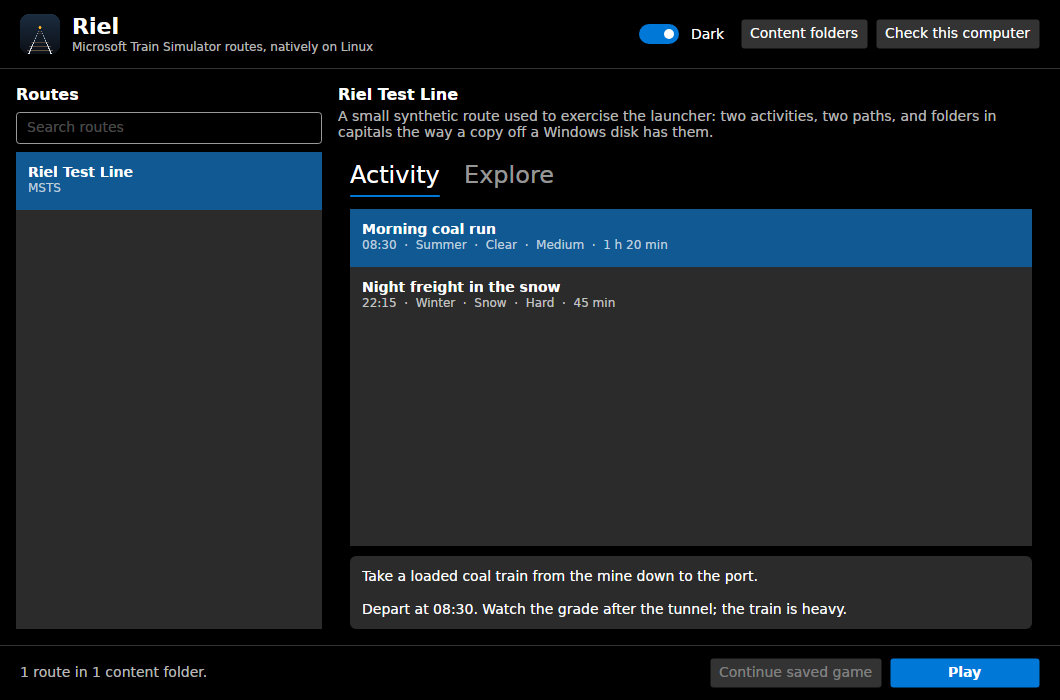
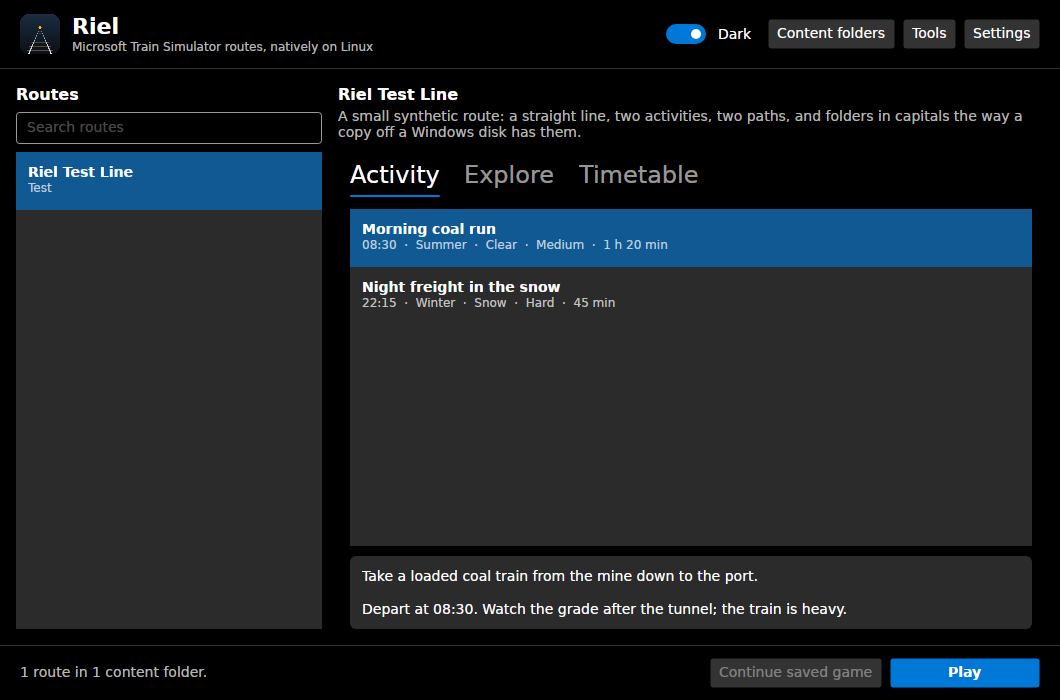
Refresh road crossings as scenery loads and update launcher docs (#10)

diff --git a/Source/Orts.Simulation/World/RoadCarSpawner.cs b/Source/Orts.Simulation/World/RoadCarSpawner.cs
@@ -19,8 +19,10 @@ namespace Orts.Simulation.World
 {
     public class RoadCarSpawner
     {
+        internal static readonly bool TraceCrossings = System.Environment.GetEnvironmentVariable("RIEL_TRACE_ROAD_CROSSINGS") == "1";
         private double lastSpawnedTime;
         private double nextSpawnTime;
+        private int crossingRevision = -1;
 
         public const float StopDistance = 10;
 
@@ -37,7 +39,7 @@ namespace Orts.Simulation.World
         //   assignment of a new instance (possibly cloned and then modified).
         public List<RoadCar> Cars { get; } = new List<RoadCar>();
         // Level crossing which interact with this spawner. Distances are used for speed curves and the list must be sorted by distance from spawner.
-        public List<RoadCarCrossing> Crossings { get; } = new List<RoadCarCrossing>();
+        public List<RoadCarCrossing> Crossings { get; private set; } = new List<RoadCarCrossing>();
 
         public TrackTraveller Traveller { get; private set; }
         public float Length { get; private set; }
@@ -74,12 +76,22 @@ namespace Orts.Simulation.World
                 Trace.TraceWarning("{0} car spawner {1} could not find road track near {2}", position, carSpawnerObj.UiD, startLocation);
             }
 
+            RefreshCrossings();
+        }
+
+        private void RefreshCrossings()
+        {
+            LevelCrossings levelCrossings = Simulator.Instance.LevelCrossings;
+            int revision = levelCrossings.RegistrationRevision;
+            if (revision == crossingRevision)
+                return;
+
             // Resolve crossings by reachability along the actual road path instead of relying on
             // TrackItemSelectors encountered while walking node-by-node.
             List<(float Distance, LevelCrossingItem Item)> reachableCrossings = new List<(float, LevelCrossingItem)>();
             float crossingSearchDistance = Length > 0 ? Length + TrackMergeDistance : float.MaxValue;
 
-            foreach (LevelCrossingItem crossingItem in Simulator.Instance.LevelCrossings.RoadCrossingItems.Values)
+            foreach (LevelCrossingItem crossingItem in levelCrossings.RoadCrossingItems.Values.Where(item => item.CrossingGroup != null))
             {
                 float distance = crossingItem.DistanceTo(Traveller, crossingSearchDistance);
                 if (distance >= 0 && (Length <= 0 || distance <= Length + TrackMergeDistance))
@@ -97,7 +109,7 @@ namespace Orts.Simulation.World
                 .ToHashSet();
 
             int recoveredCrossingGroups = 0;
-            foreach (IGrouping<LevelCrossing, LevelCrossingItem> crossingGroup in Simulator.Instance.LevelCrossings.TrackCrossingItems.Values
+            foreach (IGrouping<LevelCrossing, LevelCrossingItem> crossingGroup in levelCrossings.TrackCrossingItems.Values
                 .Where(item => item.CrossingGroup != null && !representedGroups.Contains(item.CrossingGroup))
                 .GroupBy(item => item.CrossingGroup))
             {
@@ -129,22 +141,35 @@ namespace Orts.Simulation.World
                 }
             }
 
-            Crossings = reachableCrossings
+            List<RoadCarCrossing> newCrossings = reachableCrossings
                 .OrderBy(crossing => crossing.Distance)
                 .Select(crossing => new RoadCarCrossing(crossing.Item, crossing.Distance, float.NaN))
                 .ToList();
 
+            // Existing cars may have already passed some of these crossings; each car
+            // recomputes its next index from its current position on the next update.
+            Crossings = newCrossings;
+            foreach (RoadCar car in Cars)
+                car.ResetCrossings();
+            crossingRevision = revision;
+
+            if (TraceCrossings)
+                Trace.TraceInformation("[RoadCrossing] spawner={0} revision={1} length={2:F1} stops={3} [{4}]",
+                    CarSpawnerObj.UiD, revision, Length, Crossings.Count,
+                    string.Join("; ", Crossings.Select(c => $"item={c.Item.TrackItemId} distance={c.Distance:F1} group={c.Item.CrossingGroup?.GetHashCode()}")));
+
             if (recoveredCrossingGroups > 0)
                 Trace.TraceInformation("[RoadCarSpawner] {0}: recovered {1} level-crossing group(s) from rail geometry; total stops={2}",
-                    carSpawnerObj.UiD, recoveredCrossingGroups, Crossings.Count);
-            else if (Crossings.Count == 0 && Simulator.Instance.LevelCrossings.TrackCrossingItems.Count > 0)
+                    CarSpawnerObj.UiD, recoveredCrossingGroups, Crossings.Count);
+            else if (TraceCrossings && Crossings.Count == 0 && revision > 0)
                 Trace.TraceWarning("[RoadCarSpawner] {0}: no reachable level crossings; roadItems={1}, railItems={2}, length={3:F1}m",
-                    carSpawnerObj.UiD, Simulator.Instance.LevelCrossings.RoadCrossingItems.Count,
-                    Simulator.Instance.LevelCrossings.TrackCrossingItems.Count, Length);
+                    CarSpawnerObj.UiD, levelCrossings.RoadCrossingItems.Count,
+                    levelCrossings.TrackCrossingItems.Count, Length);
         }
 
         public void Update(in ElapsedTime elapsedTime)
         {
+            RefreshCrossings();
             foreach (RoadCar car in Cars)
                 car.Update(elapsedTime);
 

diff --git a/Source/Orts.Simulation/Physics/Train.cs b/Source/Orts.Simulation/Physics/Train.cs
@@ -119,6 +119,12 @@ namespace Orts.Simulation.Physics
         public List<TrainCar> Cars { get; } = new List<TrainCar>();           // listed front to back
 #pragma warning restore CA1002 // Do not expose generic lists
         public int Number { get; internal set; }
+        // Emit only on section/route transitions to keep the activity log usable.
+        private static readonly HashSet<int> TraceAiTrainNumbers =
+            (System.Environment.GetEnvironmentVariable("RIEL_TRACE_AI_TRAINS") ?? string.Empty)
+            .Split(',', StringSplitOptions.RemoveEmptyEntries)
+            .Select(value => int.TryParse(value, out int number) ? number : -1)
+            .ToHashSet();
         public string Name { get; internal set; }
         public string TcsParametersFileName { get; internal set; }
         public static int TotalNumber { get; private set; } = 1; // start at 1 (0 is reserved for player train)
@@ -4010,6 +4016,22 @@ namespace Orts.Simulation.Physics
             UpdateTrackCircuitPosition(PresentPosition[Direction.Backward], RearTrackTraveller);
             routeIndex = ValidRoutes[Direction.Forward].GetRouteIndex(PresentPosition[Direction.Backward].TrackCircuitSectionIndex, 0);
             PresentPosition[Direction.Backward].RouteListIndex = routeIndex;
+
+            if (TraceAiTrainNumbers.Contains(Number) && this is AITrain &&
+                (PreviousPosition[Direction.Forward].TrackCircuitSectionIndex != PresentPosition[Direction.Forward].TrackCircuitSectionIndex ||
+                 PreviousPosition[Direction.Forward].RouteListIndex != PresentPosition[Direction.Forward].RouteListIndex))
+            {
+                TrackCircuitPosition front = PresentPosition[Direction.Forward];
+                int next = front.RouteListIndex + 1;
+                int nextSection = next >= 0 && next < ValidRoutes[Direction.Forward].Count
+                    ? ValidRoutes[Direction.Forward][next].TrackCircuitSection.Index : -1;
+                Trace.TraceInformation("[AiRoute] train={0} name={1} subpath={2} node={3} vectorSection={4} vectorOffset={5:F2} travellerDirection={6} tc={7} tcOffset={8:F2} tcDirection={9} routeIndex={10}/{11} nextTc={12} rearTc={13} previousTc={14} previousRouteIndex={15}",
+                    Number, Name, TCRoute?.ActiveSubPath, FrontTrackTraveller.TrackNodeIndex,
+                    FrontTrackTraveller.SectionIndex, FrontTrackTraveller.VectorNodeOffset, FrontTrackTraveller.Direction,
+                    front.TrackCircuitSectionIndex, front.Offset, front.Direction, front.RouteListIndex,
+                    ValidRoutes[Direction.Forward].Count, nextSection, PresentPosition[Direction.Backward].TrackCircuitSectionIndex,
+                    PreviousPosition[Direction.Forward].TrackCircuitSectionIndex, PreviousPosition[Direction.Forward].RouteListIndex);
+            }
 
             if (jumpRequested) // jump do be performed in multiplayer mode when train re-enters game in different position
             {

diff --git a/Source/Orts.Simulation/World/RoadCar.cs b/Source/Orts.Simulation/World/RoadCar.cs
@@ -1,6 +1,7 @@
 using System;
 using System.Collections.Generic;
 using System.Linq;
+using System.Diagnostics;
 
 using FreeTrainSimulator.Common;
 using FreeTrainSimulator.Common.Calc;
@@ -21,6 +22,8 @@ namespace Orts.Simulation.World
         private const float BrakingFactor = 5;
         private float speedMax;
         private int nextCrossingIndex;
+        private int loggedCrossingIndex = -1;
+        private bool loggedHasTrain;
 
         private WorldPosition position;
 
@@ -98,6 +101,12 @@ namespace Orts.Simulation.World
             IgnoreXRotation = Simulator.Instance.CarSpawnerLists[this.CarSpawnerListIdx].IgnoreXRotation;
         }
 
+        internal void ResetCrossings()
+        {
+            nextCrossingIndex = 0;
+            loggedCrossingIndex = -1;
+        }
+
         public void Update(in ElapsedTime elapsedTime)
         {
             List<RoadCarCrossing> crossings = Spawner.Crossings;
@@ -118,6 +127,21 @@ namespace Orts.Simulation.World
                     break;
 
                 nextCrossingIndex++;
+            }
+
+            if (RoadCarSpawner.TraceCrossings && nextCrossingIndex < crossings.Count)
+            {
+                RoadCarCrossing next = crossings[nextCrossingIndex];
+                bool hasTrain = next.Item.CrossingGroup?.HasTrain == true;
+                if (next.Distance - Travelled < 150 &&
+                    (loggedCrossingIndex != nextCrossingIndex || loggedHasTrain != hasTrain))
+                {
+                    Trace.TraceInformation("[RoadCrossing] spawner={0} car={1} next={2} item={3} distance={4:F1} front={5:F1} group={6} HasTrain={7}",
+                        Spawner.CarSpawnerObj.UiD, Type, nextCrossingIndex, next.Item.TrackItemId,
+                        next.Distance, Travelled + Length / 2, next.Item.CrossingGroup?.GetHashCode(), hasTrain);
+                    loggedCrossingIndex = nextCrossingIndex;
+                    loggedHasTrain = hasTrain;
+                }
             }
 
             // Calculate all the distances to items we need to stop at (level crossings, other cars).

diff --git a/Source/Orts.Simulation/World/LevelCrossing.cs b/Source/Orts.Simulation/World/LevelCrossing.cs
@@ -22,6 +22,7 @@ using System.Collections.Frozen;
 using System.Collections.Generic;
 using System.Diagnostics;
 using System.Linq;
+using System.Threading;
 
 using FreeTrainSimulator.Common;
 using FreeTrainSimulator.Common.Position;
@@ -38,6 +39,8 @@ namespace Orts.Simulation.World
 {
     public class LevelCrossings
     {
+        private int registrationRevision;
+        public int RegistrationRevision => Volatile.Read(ref registrationRevision);
         public FrozenDictionary<int, LevelCrossingItem> TrackCrossingItems { get; }
         public FrozenDictionary<int, LevelCrossingItem> RoadCrossingItems { get; }
         public Dictionary<LevelCrossingItem, LevelCrossingItem> RoadToTrackCrossingItems { get; } = new Dictionary<LevelCrossingItem, LevelCrossingItem>();
@@ -86,7 +89,11 @@ namespace Orts.Simulation.World
                 for (int i = 0; i < roadItems.Length; i++)
                     if (!RoadToTrackCrossingItems.ContainsKey(roadItems[i]))
                         RoadToTrackCrossingItems.Add(roadItems[i], trackItems[i]);
-            return new LevelCrossing(trackItems.Union(roadItems), warningTime, minimumDistance);
+            LevelCrossing crossing = new LevelCrossing(trackItems.Union(roadItems), warningTime, minimumDistance);
+            // World tiles load incrementally. A road-car spawner may already exist when
+            // the shape which associates its road items with this crossing is loaded.
+            Interlocked.Increment(ref registrationRevision);
+            return crossing;
         }
 
         public void Update(double elapsedTime)
@@ -334,6 +341,7 @@ namespace Orts.Simulation.World
         public ref readonly WorldLocation Location => ref trackItem.Location;
         public LevelCrossing CrossingGroup { get; internal set; }
         public int TrackIndex => vectorNode?.NodeIndex ?? -1;
+        public int TrackItemId => trackItem?.TrackItemIndex ?? -1;
         private readonly FreeTrainSimulator.Models.Track.TrackItemBase trackItem;
 
         public static LevelCrossingItem None { get; } = new LevelCrossingItem();

diff --git a/README.md b/README.md
@@ -39,9 +39,10 @@ That is the change the rest of this project was built around.
   is driven through the kernel's hidraw interface.
 - **Files where they belong.** Settings, saves, logs and content indexes follow the XDG base
   directory specification instead of one folder holding all four.
-- **A launcher to pick and play.** Choose a route, then an activity or a path and a train, and
-  press Play. It follows the system language - Spanish is complete - and is dark unless switched
-  off. The same things are there from a terminal, as `riel`.
+- **A launcher to pick and play.** Choose a route and an activity, explore with a path and train,
+  or select a timetable service. It has content folders, settings, saved games, activity checks,
+  update checks and diagnostics under **Tools**. It follows the system language and supports
+  Spanish; dark mode can be switched off. Terminal commands are available as `riel`.
 - **Failures say why.** When a run fails, the launcher shows the cause in a sentence - the file
   that is missing, the route that could not be read - rather than a click that seems to do
   nothing. A content folder with a broken route still loads everything else, and names what it
@@ -59,7 +60,10 @@ makepkg -si                               # or build by hand: docs/linux/INSTALL
 Then open **Riel** from the applications menu, choose the folder that holds `ROUTES` and
 `GLOBAL`, pick a route and press Play.
 
-![The Riel launcher](docs/linux/launcher.png)
+![The current Riel launcher with Activity, Explore and Timetable tabs](docs/linux/launcher.png)
+
+The screenshot uses the synthetic test route included in this repository; your MSTS routes and
+activities appear in its place after you add a content folder.
 
 From a terminal the same is:
 
@@ -69,28 +73,23 @@ riel routes
 riel play "Marias Pass" "Coal Train"
 ```
 
-"Check this computer" in the launcher, or `riel doctor`, says whether this machine can run the
+**Tools → Check this computer** in the launcher, or `riel doctor`, says whether this machine can run the
 simulator and names what is missing. [**INSTALL.md**](docs/linux/INSTALL.md) covers installation
 and what to do when something does not work.
 
 ## Status
 
-Riel builds and starts natively: it creates its OpenGL device, loads all twelve compiled effects,
-brings up sound, runs its game loop and shuts down cleanly. The launcher has been driven end to end
-under a virtual display: adding a folder, picking an activity or a train to explore with, starting
-the simulator, and reporting its failure. The test suite passes on Linux — 578 tests in
-`Tests.FreeTrainSimulator`, 211 in `Tests.Orts`.
-
-What has not been verified is a real route being driven, because that needs MSTS content and a
-GPU, and the machine this was developed on had neither. Expect to find things when you first load
-a route; the launcher says what failed, and the logs in `~/.local/state/riel/Logs` have the rest.
+Riel runs MSTS routes and activities natively on Linux. The launcher screenshot above was captured
+from a current portable build running the repository's synthetic test route. Real route content is
+also being tested, and compatibility still varies by activity. If an activity fails, the logs in
+`~/.local/state/riel/Logs` help identify the cause.
 
 Known gaps:
 
 - The WPF Toolbox and TrackViewer are Windows only and are not part of this build.
 - Multiplayer builds but is untested here, and the launcher does not offer it yet.
-- Timetable mode is not in the launcher yet; `riel run` can start one with the simulator's own
-  arguments.
+- Some routes have AI traffic, signal and level-crossing behavior that differs from Open Rails;
+  these are active compatibility investigations.
 - The renderer is OpenGL. [ARCHITECTURE.md](docs/linux/ARCHITECTURE.md) explains why, and what a
   Vulkan backend would actually take; `RIEL_VULKAN=1` runs the same renderer on Vulkan through
   Mesa's zink in the meantime.

diff --git a/docs/linux/QA.md b/docs/linux/QA.md
@@ -41,6 +41,14 @@ Also test the Quit button and quitting during loading. In launcher Settings, tes
 load/save/reopen, resetting bindings, Ctrl/Shift/Alt combinations, Escape cancelling
 a capture, and video settings (especially fullscreen with an existing profile).
 
+For a route with blocked AI trains, start the launcher with
+`RIEL_TRACE_AI_TRAINS=167,198,7,89 riel gui` to log the front track node, section, travel
+direction, track circuit, route index and next section whenever one of these services changes
+section. Replace the numbers with the services shown in the log. For cars ignoring level crossings, use
+`RIEL_TRACE_ROAD_CROSSINGS=1 riel gui` to log each spawner's discovered crossing groups and
+changes to `HasTrain` as a car approaches. These diagnostic options add entries to the normal
+simulator log; compare them with the matching crossing or train in an Open Rails run.
+
 The default F1 Help, F4 Track Monitor, Escape Pause Menu and Alt+F4 Quit bindings match
 Open Rails. Some bindings inherited from Free Train Simulator differ: Driving is
 Ctrl+F5 here rather than F5, and Train Operations is F9 here rather than Ctrl+Alt+F9.
